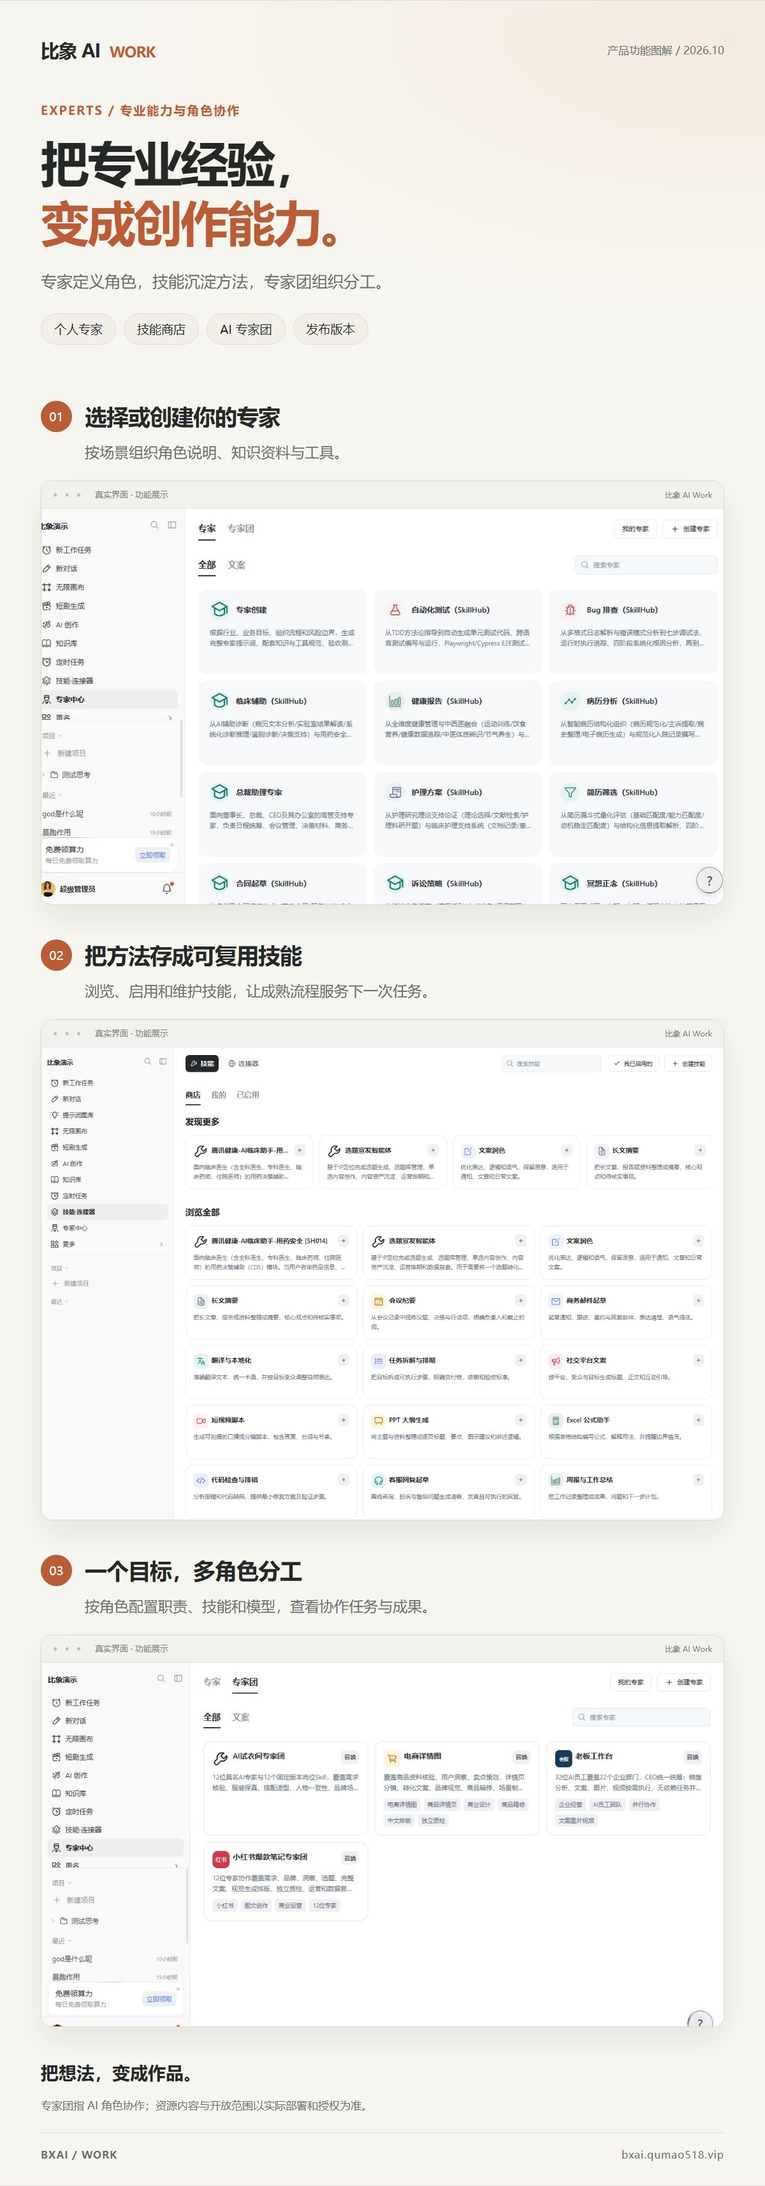
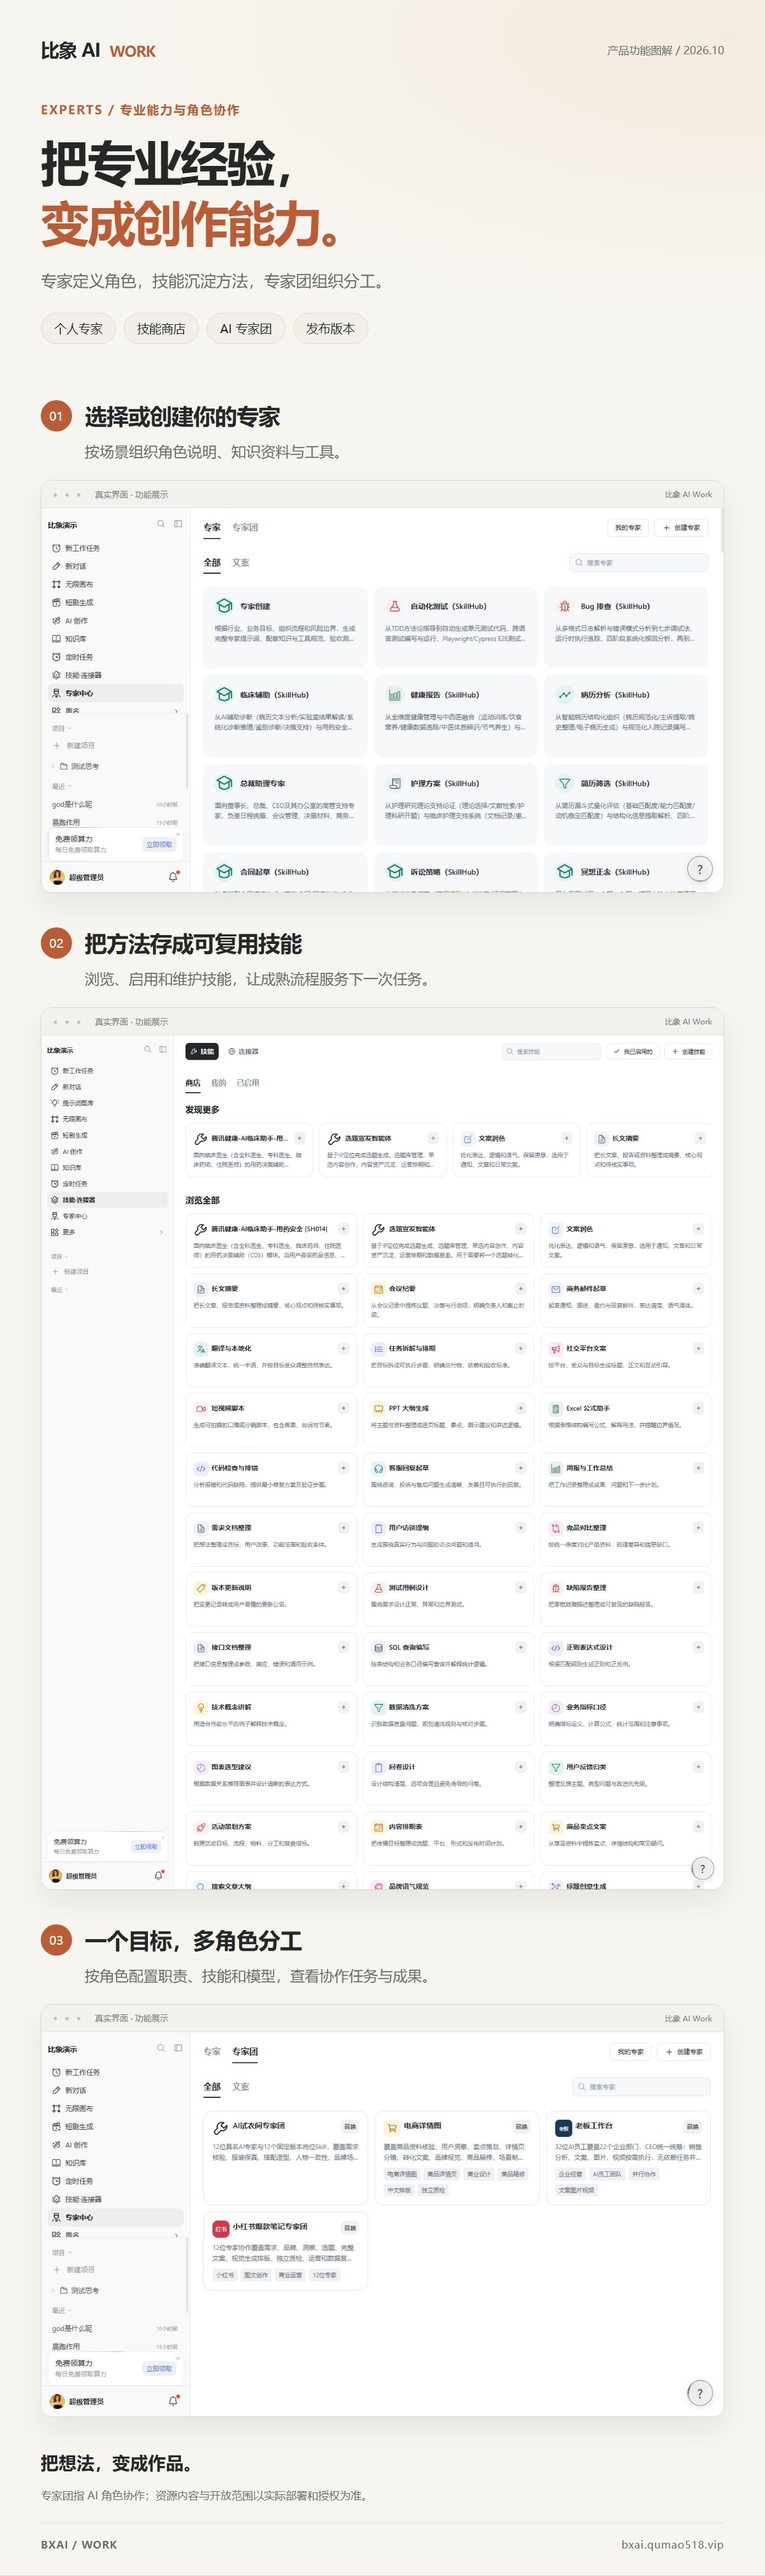
修复全部展示长图中的界面裁切并保留原始比例

diff --git a/README.md b/README.md
@@ -10,7 +10,7 @@
 
 **产品介绍更新：2026 年 10 月 19 日**
 
-![比象 AI Work 全系统功能展示长图](images/work-showcase/01-overview.jpg)
+![比象 AI Work 全系统功能展示长图](images/work-showcase/01-overview.jpg?full=20261019)
 
 </div>
 
@@ -49,7 +49,7 @@
 
 例如，整理新品推广方案时，从产品资料出发完成卖点提炼、内容选题、图文文案与执行清单，再按需调用图片、视频或文档工具。
 
-![Work 从任务输入到工具执行的功能长图](images/work-showcase/02-workflow.jpg)
+![Work 从任务输入到工具执行的功能长图](images/work-showcase/02-workflow.jpg?full=20261019)
 
 ### 2. 专家与技能：让经验成为可复用能力
 
@@ -57,7 +57,7 @@
 
 适用于内容策划、品牌文案、电商运营、研究分析、编程辅助等场景。专家资源及具体内容以站点配置与所购清单为准。
 
-![专家、技能与 AI 专家团组合展示长图](images/work-showcase/03-experts.jpg)
+![专家、技能与 AI 专家团组合展示长图](images/work-showcase/03-experts.jpg?full=20261019)
 
 ### 3. AI 专家团：一个目标，多角色分工
 
@@ -71,7 +71,7 @@
 
 **图片创作**支持输入提示词、上传参考图片和选择可用模型；比例、分辨率、风格及编辑能力根据所选模型开放。
 
-![AI 图片与视频创作组合展示长图](images/work-showcase/04-creation.jpg)
+![AI 图片与视频创作组合展示长图](images/work-showcase/04-creation.jpg?full=20261019)
 
 **视频创作**支持选择可用视频模型，按模型能力配置文生视频、参考素材、时长、画幅和清晰度等参数，并管理生成记录。
 
@@ -125,9 +125,9 @@
 - **视频处理**：按工具配置使用视频增强、字幕擦除及裁剪等处理能力，也可将视频解析为故事与镜头参考。
 - **保存与发布**：维护项目内容和历史，按开放权限预览、分享或发布作品。
 
-![无限画布节点创作与时间线成果长图](images/work-showcase/05-canvas.jpg)
+![无限画布节点创作与时间线成果长图](images/work-showcase/05-canvas.jpg?full=20261019)
 
-![导演台构图与角色姿势配置长图](images/work-showcase/06-director.jpg)
+![导演台构图与角色姿势配置长图](images/work-showcase/06-director.jpg?full=20261019)
 
 ### 9. 短剧专业模式：从剧本到分集镜头
 
@@ -147,7 +147,7 @@
 
 短剧助手可围绕作品、资产与剧集继续沟通，配合素材选择和费用提示推进生产。近期实现还围绕台词与说话人、人物造型、场景空间、镜头连续性和手动修改保留进行了改进，效果取决于输入资料及生成模型。
 
-![专业短剧从剧本到角色与分集制作长图](images/work-showcase/07-shortplay.jpg)
+![专业短剧从剧本到角色与分集制作长图](images/work-showcase/07-shortplay.jpg?full=20261019)
 
 独立短剧包中的高效模式、小说素材等其他入口，不直接视为 Work 专业模式的相同交付范围。
 
@@ -175,7 +175,7 @@
 - **代码与数据处理**：可执行技能在受控运行环境中调用 Python / JavaScript，辅助处理资料、数据或生成文件；依赖、权限与超时受平台配置约束。
 - **成果管理**：通过成果面板预览、下载与继续使用可交付文件，导出格式以对应工具为准。
 
-![多媒体与办公成果功能展示长图](images/work-showcase/09-office-media.jpg)
+![多媒体与办公成果功能展示长图](images/work-showcase/09-office-media.jpg?full=20261019)
 
 ### 13. 创意工具、应用与智能体扩展
 
@@ -208,7 +208,7 @@
 
 资料处理和检索依赖所配置的知识服务。不同资源的可见范围、版本及使用权限按用户和站点设置控制。
 
-![知识库、连接器与云端定时任务长图](images/work-showcase/08-knowledge-auto.jpg)
+![知识库、连接器与云端定时任务长图](images/work-showcase/08-knowledge-auto.jpg?full=20261019)
 
 ### 16. 连接器：让任务使用外部工具
 
@@ -269,7 +269,7 @@ Work 界面支持简体中文、繁体中文和英文，并提供浅色、深色
 
 后台围绕“用户使用什么、资源如何配置、费用如何结算、异常如何处理”提供集中管理。
 
-![品牌与商业运营后台功能导览长图](images/work-showcase/10-operations.jpg)
+![品牌与商业运营后台功能导览长图](images/work-showcase/10-operations.jpg?full=20261019)
 
 | 管理模块 | 主要内容 |
 | --- | --- |
@@ -326,7 +326,7 @@ Work 界面支持简体中文、繁体中文和英文，并提供浅色、深色
 | 运营与分站 | 会员算力、支付、内容、模型和任务后台；OEM 及其他商业扩展按授权开放 |
 | 桌面与多端 | 客户端、平台适配、安装与更新服务以实际发行包和验收为准 |
 
-本页采用 10 张统一排版的功能展示图，核心模块以多界面长图呈现操作与成果。界面来自真实演示与教程记录，图中的说明文字为功能讲解；PPT 界面为历史参考，运营导览为功能分类设计。模型、素材、价格、示例内容和数量属于站点配置，不作为固定交付承诺。
+本页采用 10 张统一排版的功能展示图，核心模块以多界面长图呈现操作与成果。每张界面截图按原始比例完整显示，长图可点击放大查看。界面来自真实演示与教程记录，图中的说明文字为功能讲解；PPT 界面为历史参考，运营导览为功能分类设计。模型、素材、价格、示例内容和数量属于站点配置，不作为固定交付承诺。
 
 本介绍覆盖当前 Work 包及相关配套能力，不代表所有能力均已在每个站点上线或完成真实供应商联调。发布与交付以实际版本、服务配置、授权及验收清单为准；介绍更新日期不作为安装包版本号。
 
